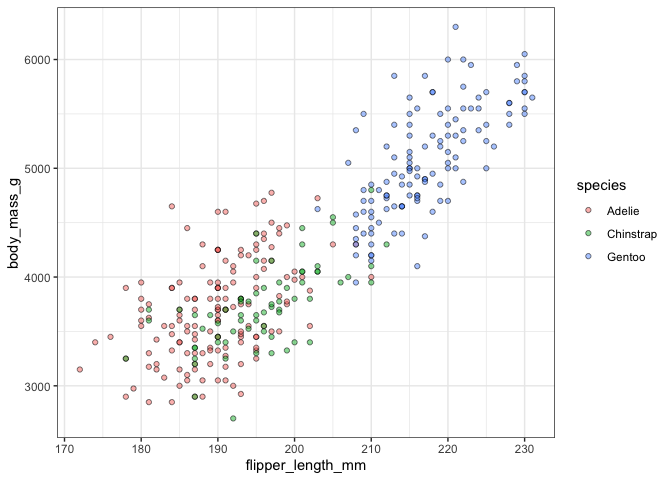
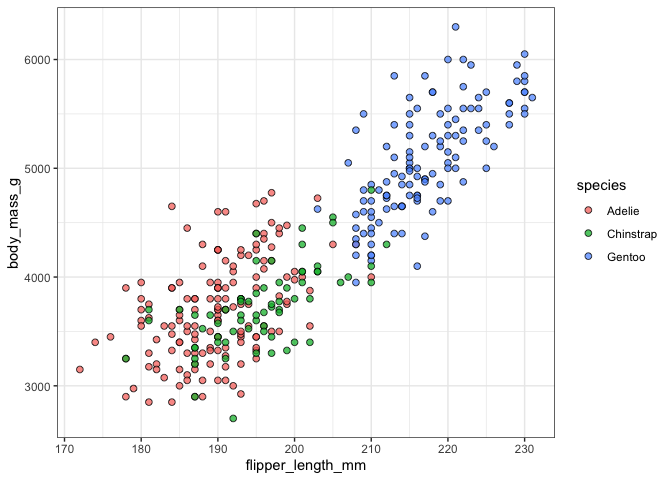
adding remaining workshop components

diff --git a/workshop-companion.md b/workshop-companion.md
@@ -13,6 +13,10 @@ the published figures\! So even though the workshop itself is not about
 coding, I’ve compiled this companion document to demonstrate how to do
 some of the things we’ve discussed in R.
 
+Note that this companion is unfortunately **not** an exhaustive how-to
+for using `ggplot2`. But fortunately there are many of those guides out
+there already\!
+
 ## Load packages
 
 To start, load all of the required packages.
@@ -69,7 +73,7 @@ one category data, the best option is to use an open circle. I often use
 
 ``` r
 ggplot(data=penguins, aes(x=flipper_length_mm, y=body_mass_g)) + 
-  geom_point(aes(fill=species), shape=21, alpha=0.5) +
+  geom_point(aes(fill=species), shape=21, alpha=0.75, size=2) +
   theme_bw()
 ```
 
@@ -78,12 +82,12 @@ ggplot(data=penguins, aes(x=flipper_length_mm, y=body_mass_g)) +
 If you need multiple shapes, be sure to choose options with strong
 visual boundaries. For example, if you start with `21` (an open circle),
 you could then use `3` (a cross) and `24` (an open triangle) to create
-strong boundaries. You use the `scale_shape_manul()` option in `ggplot2`
-to select multiple shapes:
+strong boundaries. You use the `scale_shape_manual()` option in
+`ggplot2` to select multiple shapes:
 
 ``` r
 ggplot(data=penguins, aes(x=flipper_length_mm, y=body_mass_g)) + 
-  geom_point(aes(shape=species, fill=species), alpha=0.5) +
+  geom_point(aes(shape=species, fill=species), alpha=0.75, size=2) +
   scale_shape_manual(values=c(21,3,24)) +
   theme_bw()
 ```
@@ -102,8 +106,8 @@ to create scatterplots with points. This is generally a really good
 starting place\!
 
 Some other good options that are very **accurate** and **efficient** and
-frequently used are `geom_line` and `geom_boxplot` or `geom_violin`.
-Here’s an example using `geom_boxplot`:
+frequently used are `geom_line` and `geom_boxplot`/`geom_violin`. Here’s
+an example using `geom_boxplot`:
 
 ``` r
 ggplot(data=penguins, aes(x=species, y=body_mass_g)) + 
@@ -112,3 +116,169 @@ ggplot(data=penguins, aes(x=species, y=body_mass_g)) +
 ```
 
 ![](workshop-companion_files/figure-gfm/unnamed-chunk-6-1.png)<!-- -->
+
+## Color
+
+### Color palettes
+
+You can easily use color palettes **directly** in `ggplot2` using
+`scale_color_brewer()` or `scale_fill_brewer()` (depending on how the
+color option is called). Here are two examples:
+
+``` r
+ggplot(data=penguins, aes(x=flipper_length_mm, y=body_mass_g)) + 
+  geom_point(aes(fill=species), shape=21, alpha=0.75, size=2) +
+  scale_fill_brewer(palette="Set1") + 
+  theme_bw()
+```
+
+![](workshop-companion_files/figure-gfm/unnamed-chunk-7-1.png)<!-- -->
+
+``` r
+ggplot(data=penguins, aes(x=flipper_length_mm, y=body_mass_g)) + 
+  geom_point(aes(fill=species), shape=21, alpha=0.75, size=2) +
+  scale_fill_brewer(palette="Spectral") + 
+  theme_bw()
+```
+
+![](workshop-companion_files/figure-gfm/unnamed-chunk-8-1.png)<!-- -->
+
+`RColorBrewer` has a lot of color palettes available\! Below they are
+separated into the three groups discussed in the workshop: sequential
+palettes, categorical palettes, and diverging palettes.
+
+``` r
+#install.packages("RColorBrewer")
+library("RColorBrewer")
+display.brewer.all(colorblindFriendly=FALSE)
+```
+
+![](workshop-companion_files/figure-gfm/unnamed-chunk-9-1.png)<!-- -->
+
+### Color blind friendly palettes
+
+`RColorBrewer` itself has many color palettes that are colorblind
+friendly:
+
+``` r
+display.brewer.all(colorblindFriendly=TRUE)
+```
+
+![](workshop-companion_files/figure-gfm/unnamed-chunk-10-1.png)<!-- -->
+
+In the workshop I also mentioned other options. One categorical palette
+option from *Wang et al. 2011* is as
+follows:
+
+``` r
+cbfriendly <- c("#000000", "#E69F00", "#56B4E9", "#009E73", "#F0E442", "#0072B2", "#D55E00", "#CC79A7")
+```
+
+Many of Paul Tol’s color schemes are also colorblind friendly:
+<https://cran.r-project.org/web/packages/khroma/vignettes/tol.html#introduction>
+
+If you make your own palette or use one you find online, it is very easy
+to use in `ggplot2` with `scale_color_manual()` or `scale_fill_manual()`
+(again, depending on how the color option is called):
+
+``` r
+cbfriendly1 <- c("#56B4E9", "#E69F00", "#D55E00")
+
+ggplot(data=penguins, aes(x=flipper_length_mm, y=body_mass_g)) + 
+  geom_point(aes(fill=species), shape=21, alpha=0.75, size=2) +
+  scale_fill_manual(values=cbfriendly1) + 
+  theme_bw()
+```
+
+![](workshop-companion_files/figure-gfm/unnamed-chunk-12-1.png)<!-- -->
+
+## Emphasis
+
+There are many ways to add emphasis in a figure. Some of the easiest
+ways in `ggplot2` to emphasize are using color, point size, or point
+shape. Since you’ve already seen how to modify color and point shape,
+here I will include a brief example on how to change point size for
+emphasis.
+
+Depending on how (and what) you would like to emphasis, you will likely
+need to work with your dataset to create a new variable. This is easily
+accomplished with the `mutate()` function in `dplyr` (a `tidyverse`
+package). In this case, I will create a new variable to highlight the
+Gentoo penguin species.
+
+``` r
+penguin_emphasis <- penguins %>%
+  mutate(emphasize = ifelse(species=="Gentoo","YES","NO"))
+```
+
+We now have a new variable at the end of the dataset (`emphasize`) that
+we can use to tell `ggplot2` to emphasize Gentoo penguins in the
+figure:
+
+``` r
+kable(head(penguin_emphasis))
+```
+
+| species | island    | bill\_length\_mm | bill\_depth\_mm | flipper\_length\_mm | body\_mass\_g | sex    | year | emphasize |
+| :------ | :-------- | ---------------: | --------------: | ------------------: | ------------: | :----- | ---: | :-------- |
+| Adelie  | Torgersen |             39.1 |            18.7 |                 181 |          3750 | male   | 2007 | NO        |
+| Adelie  | Torgersen |             39.5 |            17.4 |                 186 |          3800 | female | 2007 | NO        |
+| Adelie  | Torgersen |             40.3 |            18.0 |                 195 |          3250 | female | 2007 | NO        |
+| Adelie  | Torgersen |               NA |              NA |                  NA |            NA | NA     | 2007 | NO        |
+| Adelie  | Torgersen |             36.7 |            19.3 |                 193 |          3450 | female | 2007 | NO        |
+| Adelie  | Torgersen |             39.3 |            20.6 |                 190 |          3650 | male   | 2007 | NO        |
+
+We tell `ggplot2` to change the size of the points by modifying the
+`aes()` option within `geom_point`. By placing `size=emphasize` *within*
+the `aes()`, we are telling `ggplot2` that it will use the data (the
+`emphasize` variable) to determine the size of the points in the figure.
+(Previously we had include `size=2` outside the `aes()` telling
+`ggplot2` that we wanted all of the points to be of size
+2.)
+
+``` r
+ggplot(data=penguin_emphasis, aes(x=flipper_length_mm, y=body_mass_g)) + 
+  geom_point(aes(fill=species, size=emphasize), shape=21, alpha=0.75) +
+  scale_fill_manual(values=cbfriendly1) + 
+  theme_bw()
+```
+
+![](workshop-companion_files/figure-gfm/unnamed-chunk-15-1.png)<!-- -->
+
+You can use a similar process of first mutating the dataset to include a
+new “emphasis” variable (in `dplyr`) and then changing the color or the
+shape or any number of other options in the figure (in `ggplot2`)\! If
+things don’t seem to be working correctly, remember to first check if
+you’ve modified options *within* `aes()` or not\!
+
+For some other basic tips on using `dplyr` see my GitHub repository
+<https://github.com/stepfanie-aguillon/AOS2021-dplyr>\!
+
+## Everything stacks\!
+
+Finally, don’t forget that you can stack all of these different options
+together\! The different design principles stack, elements in `ggplot2`
+stack, etc. etc. By combining multiple elements together, you can ensure
+that your figure will convey your point as clearly, accurately, and
+efficiently as possible\!
+
+And there are SO many options in `ggplot2` to
+explore\!
+
+``` r
+ggplot(data=penguin_emphasis, aes(x=flipper_length_mm, y=body_mass_g)) + 
+  geom_point(aes(fill=species, shape=species, size=emphasize), alpha=0.75) +
+  geom_smooth(aes(color=species), method="lm", se=FALSE) +
+  scale_fill_manual(values=cbfriendly1) + 
+  scale_color_manual(values=cbfriendly1) +
+  scale_shape_manual(values=c(21,21,24)) +
+  scale_size_manual(values=c(2,4)) +
+  xlab("Flipper length (mm)") + 
+  ylab("Body mass (g)") +
+  labs(shape="Species name", fill="Species name") +
+  theme(axis.title=element_text(face="bold",size=12), axis.text=element_text(size=10,color="black")) +
+  guides(size=FALSE,color=FALSE) +
+  theme_bw()
+```
+
+![](workshop-companion_files/figure-gfm/unnamed-chunk-16-1.png)<!-- -->
